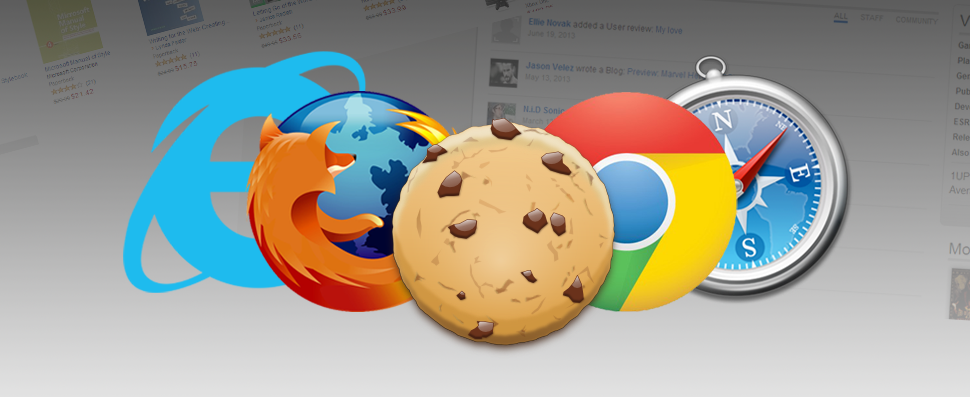
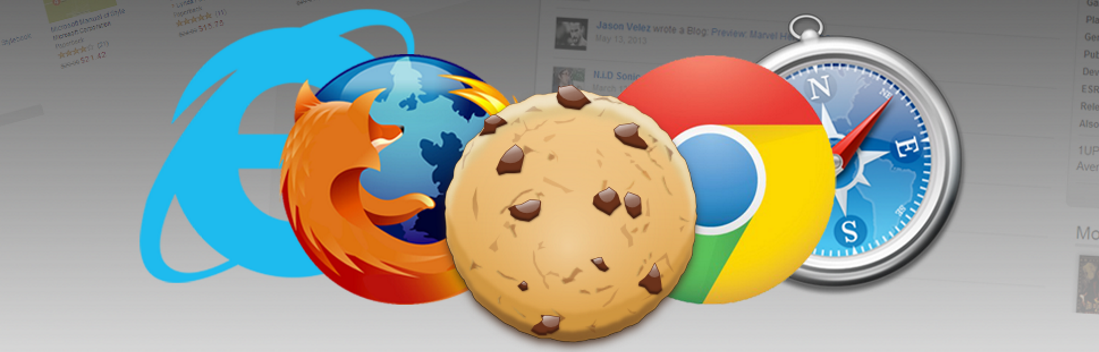
Footer adjustments Image changes

diff --git a/css/main.min.css b/css/main.min.css
@@ -1,1 +1,1 @@
-@font-face{font-family:'FoundersGroteskWeb-Regular';src:url('../fonts/Founders/FoundersGroteskWeb-Regular.eot') format('embedded-opentype')}@font-face{font-family:'FoundersGroteskWeb-Regular';src:url('../fonts/Founders/FoundersGroteskWeb-Regular.woff') format('woff')}html{position:relative;min-height:100%}body{color:#3c4650;font-family:'FoundersGroteskWeb-Regular','Helvetica Neue',Helvetica,Arial,sans-serif;font-size:18px;line-height:1.42857;padding-top:120px;margin-bottom:426px}h1,h2,h3,h4,h5,h6{font-family:FoundersGroteskWeb-Regular}.container{padding-bottom:20px;padding-top:20px}a{color:#00aaeb;text-decoration:none}a:hover,a:focus{color:#0085b8;text-decoration:underline}.navbar{min-height:88px}.navbar-inverse{background-color:#00aaeb;background-image:none;border-color:#0085b8;margin-bottom:0}.navbar-inverse .navbar-brand{color:#fff}.navbar-brand{font-size:32px;font-weight:600;color:#fff;background-position-x:top;padding-left:0;margin-top:-20px}div.navbar-header>a.logo{width:485px}.barrel{border-left:4px solid #fff;margin-right:20px;padding-left:15px;margin-left:230px}.marked{padding:20px 0;margin:20px 0}.jumbotron{background-color:#fff;padding:0}.imgJumbo{min-height:300px}.hero{padding-bottom:30px}.hero h1{font-size:81px;line-height:.875;margin-top:0}.hero h2{font-size:60px;line-height:.875;margin-top:0}.hero p{font-size:26px;margin:0 0 12.5px}.area{width:90px;height:90px;border-radius:45px;background-color:#00aafd;margin:0 auto;padding:inherit;color:#fff;text-align:center}.blueRow{background-color:#ebf7f7}.rotate45{filter:progid:DXImageTransform.Microsoft.BasicImage(rotation=1);-webkit-transform:rotate(45deg);-moz-transform:rotate(45deg);-ms-transform:rotate(45deg);-o-transform:rotate(45deg);transform:rotate(45deg)}div .area{margin-top:20px}.area span{line-height:90px}i.fa.fa-user.fa-stack-1x,i.fa.fa-question.fa-stack-1x{color:#00aafd}.showcase.panel{-moz-backface-visibility:hidden;-webkit-backface-visibility:hidden;backface-visibility:hidden;height:280px;text-transform:none;-moz-transition:opacity 300ms linear 0s,transform 300ms ease-in-out 0s;-o-transition:opacity 300ms linear 0s,transform 300ms ease-in-out 0s;-webkit-transition:opacity 300ms linear 0s,transform 300ms ease-in-out 0s;transition:opacity 300ms linear 0s,transform 300ms ease-in-out 0s}.showcase.panel:hover{-moz-backface-visibility:hidden;-webkit-backface-visibility:hidden;backface-visibility:hidden;height:280px;text-transform:none;-moz-transition:opacity 300ms linear 0s,transform 300ms ease-in-out 0s;-o-transition:opacity 300ms linear 0s,transform 300ms ease-in-out 0s;-webkit-transition:opacity 300ms linear 0s,transform 300ms ease-in-out 0s;transition:opacity 300ms linear 0s,transform 300ms ease-in-out 0s}.panel-default{border-color:#ddd}.panel{background-color:#fff;border:1px solid #ddd;border-radius:4px;box-shadow:0 1px 1px rgba(0,0,0,.05);margin-bottom:25px}.showcase.panel a .panel-body{height:100%}a .panel-body{-moz-transition:color 500ms ease-out 0s,background-color 500ms ease-out 0s,box-shadow 500ms ease-out 0s,opacity 500ms linear 0s,transform 500ms ease-in-out 0s;-o-transition:color 500ms ease-out 0s,background-color 500ms ease-out 0s,box-shadow 500ms ease-out 0s,opacity 500ms linear 0s,transform 500ms ease-in-out 0s;-webkit-transition:color 500ms ease-out 0s,background-color 500ms ease-out 0s,box-shadow 500ms ease-out 0s,opacity 500ms linear 0s,transform 500ms ease-in-out 0s;transition:color 500ms ease-out 0s,background-color 500ms ease-out 0s,box-shadow 500ms ease-out 0s,opacity 500ms linear 0s,transform 500ms ease-in-out 0s}.panel-body{padding:15px}div.feed p a:before,div.no-row.clearfix h3 a.pull-right:before{padding-right:5px;content:url('../img/png/icon_arrow_right16.png');height:10px;width:10px}div.feed p a:hover:before,div.no-row.clearfix h3 a.pull-right:hover:before{padding-right:5px;content:url('../img/png/icon_arrow_right16_dark.png')}.label-info{color:#3c4650;background-color:#fff7b4}.label-info.date-short{display:inline-block;width:56px;color:#3c4650 !important;margin-right:10px;padding:4px 0 4px 0;line-height:1.5;font-weight:normal;background-color:#fff7b4 !important}.truncate,.truncate *,.ellipsis,.ellipsis *{overflow:hidden;-ms-text-overflow:ellipsis;-o-text-overflow:ellipsis;text-overflow:ellipsis;white-space:nowrap}.truncate li .label-info+a,.truncate * li .label-info+a,.ellipsis li .label-info+a,.ellipsis * li .label-info+a{margin-left:-66px;padding-left:66px}.truncate a,.ellipsis a{display:inline-block;max-width:100%;overflow:hidden;-ms-text-overflow:ellipsis;-o-text-overflow:ellipsis;text-overflow:ellipsis;white-space:nowrap}ul.list-unstyled{line-height:2}ul.list-unstyled.truncate,ul.list-unstyled.ellipsis{line-height:1.64}.footer{position:absolute;bottom:0;width:100%;min-height:426px}footer{background-color:#00394d}footer h1,footer .h1,footer h2,footer .h2,footer h3,footer .h3,footer .copyright{color:#aaa}footer a,footer .logo{color:#fff}footer a:hover,footer a:focus{color:#00aaeb}footer,footer .info{padding-top:20px;padding-bottom:20px}footer .info{line-height:2}footer .info .logo{float:right}footer .info .logo .icon{font-size:54px}button.btn{border:1px solid transparent;padding-bottom:10px;padding-top:10px}.hero a,.hero button{font-size:18px}.btn-primary{background-color:#00aaeb;border-color:#0098d2;color:#fff}.btn{-moz-user-select:none;-ms-user-select:none;-webkit-user-select:none;user-select:none;background-image:none;border:1px solid transparent;border-radius:0;cursor:pointer;display:inline-block;font-size:18px;font-weight:normal;line-height:1.42857;margin-bottom:0;padding:6px 12px;text-align:center;vertical-align:middle;white-space:nowrap}span.btn.btn-link{background-color:#75828a;color:#ebf7f7;padding-bottom:10px;padding-top:10px}span.btn.btn-link:hover,span.btn.btn-link:active{background-color:#39464e}.text-uppercase{text-transform:uppercase}a,button,a .icon,a .panel-body,span.btn.btn-link{-moz-transition:color 500ms ease-out 0s,background-color 500ms ease-out 0s,box-shadow 500ms ease-out 0s,opacity 500ms linear 0s,transform 500ms ease-in-out 0s;-o-transition:color 500ms ease-out 0s,background-color 500ms ease-out 0s,box-shadow 500ms ease-out 0s,opacity 500ms linear 0s,transform 500ms ease-in-out 0s;-webkit-transition:color 500ms ease-out 0s,background-color 500ms ease-out 0s,box-shadow 500ms ease-out 0s,opacity 500ms linear 0s,transform 500ms ease-in-out 0s;transition:color 500ms ease-out 0s,background-color 500ms ease-out 0s,box-shadow 500ms ease-out 0s,opacity 500ms linear 0s,transform 500ms ease-in-out 0s}input,button,select,textarea{font-family:inherit;font-size:inherit;line-height:inherit}button,html input[type="button"],input[type="reset"],input[type="submit"]{cursor:pointer}button,select{text-transform:none}button{overflow:visible}.heading-small{font-size:1.2em;color:#777;margin-bottom:0}.heading-large{margin-top:0;font-weight:bold}div.navbar-collapse.collapse>div>div:nth-child(2)>a,div.navbar-collapse.collapse>div>div:nth-child(1)>a{color:#fff;font-weight:500;cursor:pointer;text-decoration:none}div.btn-group.open a{font-weight:normal;text-decoration:none;box-shadow:none !important}div.card .nav-tabs{border-bottom:2px solid #ddd}div.card .nav-tabs>li.active>a,div.card .nav-tabs>li.active>a:focus,div.card .nav-tabs>li.active>a:hover{border-width:0}div.card .nav-tabs>li>a{border:none;color:#666;font-weight:bold}div.card .nav-tabs>li.active>a,div.card .nav-tabs>li>a:hover{border:none;color:#00aaeb !important;background:transparent;font-weight:bold}div.card .nav-tabs>li>a::after{content:"";background:#00aaeb;height:2px;position:absolute;width:100%;left:0;bottom:-1px;-moz-transition:all 250ms ease 0s;-o-transition:all 250ms ease 0s;-webkit-transition:all 250ms ease 0s;transition:all 250ms ease 0s;-moz-transform:scale(0);-ms-transform:scale(0);-o-transform:scale(0);-webkit-transform:scale(0);transform:scale(0)}div.card .nav-tabs>li.active>a::after,div.card .nav-tabs>li:hover>a::after{-moz-transform:scale(1);-ms-transform:scale(1);-o-transform:scale(1);-webkit-transform:scale(1);transform:scale(1)}div.card .tab-nav>li>a::after{background:#21527d none repeat scroll 0 0;color:#fff}div.card .tab-pane{padding:0}div.card .tab-content{padding:15px;-moz-box-sizing:content-box;-webkit-box-sizing:content-box;box-sizing:content-box}div.card{background:#fff none repeat scroll 0 0;box-shadow:0 1px 3px rgba(0,0,0,.3);margin:10px 0}.form-data{padding:5px 15px 5px;border-radius:5px;background-color:#999;color:#fff}div.row.col-md-4.well{margin:0 15px}.dropdown-menu{min-width:400px}.dropdown-menu.user{padding:20px;min-width:220px;font-size:20px}.dropdown-menu.create{padding:20px;min-width:400px}i.glyphicon.glyphicon-info-sign.text-info{vertical-align:top;font-size:12px}@media(max-width:767px){div.navbar-collapse.collapse{display:inline-block;float:right;border-top-style:none;box-shadow:0 0 0 rgba(255,255,255,.1) inset;border-color:transparent !important;-moz-border-image:none;-o-border-image:none;-webkit-border-image:none;border-image:none;padding-right:20px;z-index:999999 !important}.dropdown-menu.user{padding:20px;min-width:220px;font-size:20px;margin-left:-15px}div.row.col-md-4.well{margin:15px 0}.nav>li>a{padding:10px 10px}.create{padding:20px;min-width:400px}.dropdown-menu.create{margin-left:-320px}}.code-highlight{font-family:monospace;background:#3c4650;color:#fff;padding:20px;border-radius:8px}span.fa-stack.fa-lg{margin:0 8px}i.fa.fa-bars{font-size:30px;vertical-align:middle}.scroll-top-wrapper{position:fixed;opacity:0;visibility:hidden;overflow:hidden;text-align:center;z-index:99999999;background-color:#265a88;color:#eee;width:60px;height:60px;line-height:48px;right:20px;bottom:20px;padding-top:2px;border-radius:30px;-webkit-transition:all .3s ease-in-out;-moz-transition:all .3s ease-in-out;-o-transition:all .3s ease-in-out;transition:all .3s ease-in-out}.scroll-top-wrapper:hover{background-color:#00aaeb;opacity:1 !important}.scroll-top-wrapper.show{visibility:visible;cursor:pointer;opacity:.65}.scroll-top-wrapper i.fa{line-height:inherit}.fa.fa-envelope,.glyphicon.glyphicon-map-marker,.fa.fa-phone,.fa.fa-fax{color:#00aaeb}.fa.fa-envelope.adress,.glyphicon.glyphicon-map-marker.adress,.fa.fa-phone.adress,.fa.fa-fax.adress{color:#3c4650}.google-maps{position:relative;padding-bottom:60%;height:0;overflow:hidden}.google-maps iframe{position:absolute;top:0;left:0;width:100% !important;height:100% !important}nav#scroller{position:fixed;z-index:1;left:0;right:0;top:84px;background:#fff;padding-top:-15px;margin-top:-15px}nav#scroller li a.active{border-bottom:3px solid #00aaeb;color:#00aaeb !important;background:transparent;font-weight:bold}nav#scroller li a:hover{border-bottom:inset 3px solid #00aaeb;color:#00aaeb !important;background:transparent;font-weight:bold}nav#scroller li:hover{border-bottom:none}nav#scroller li a:not(.active){background-color:#fff;color:#787878}
+@font-face{font-family:'FoundersGroteskWeb-Regular';src:url('../fonts/Founders/FoundersGroteskWeb-Regular.eot') format('embedded-opentype')}@font-face{font-family:'FoundersGroteskWeb-Regular';src:url('../fonts/Founders/FoundersGroteskWeb-Regular.woff') format('woff')}html{position:relative;min-height:100%}body{color:#3c4650;font-family:'FoundersGroteskWeb-Regular','Helvetica Neue',Helvetica,Arial,sans-serif;font-size:18px;line-height:1.42857;padding-top:120px;margin-bottom:426px}h1,h2,h3,h4,h5,h6{font-family:FoundersGroteskWeb-Regular}.container{padding-bottom:20px;padding-top:20px}a{color:#00aaeb;text-decoration:none}a:hover,a:focus{color:#0085b8;text-decoration:underline}.navbar{min-height:88px}.navbar-inverse{background-color:#00aaeb;background-image:none;border-color:#0085b8;margin-bottom:0}.navbar-inverse .navbar-brand{color:#fff}.navbar-brand{font-size:32px;font-weight:600;color:#fff;background-position-x:top;padding-left:0;margin-top:-20px}div.navbar-header>a.logo{width:485px}.barrel{border-left:4px solid #fff;margin-right:20px;padding-left:15px;margin-left:230px}.marked{padding:20px 0;margin:20px 0}.jumbotron{background-color:#fff;padding:0}.imgJumbo{min-height:300px}.hero{padding-bottom:30px}.hero h1{font-size:81px;line-height:.875;margin-top:0}.hero h2{font-size:60px;line-height:.875;margin-top:0}.hero p{font-size:26px;margin:0 0 12.5px}.area{width:90px;height:90px;border-radius:45px;background-color:#00aafd;margin:0 auto;padding:inherit;color:#fff;text-align:center}.blueRow{background-color:#ebf7f7}.rotate45{filter:progid:DXImageTransform.Microsoft.BasicImage(rotation=1);-webkit-transform:rotate(45deg);-moz-transform:rotate(45deg);-ms-transform:rotate(45deg);-o-transform:rotate(45deg);transform:rotate(45deg)}div .area{margin-top:20px}.area span{line-height:90px}i.fa.fa-user.fa-stack-1x,i.fa.fa-question.fa-stack-1x{color:#00aafd}.showcase.panel{-moz-backface-visibility:hidden;-webkit-backface-visibility:hidden;backface-visibility:hidden;height:280px;text-transform:none;-moz-transition:opacity 300ms linear 0s,transform 300ms ease-in-out 0s;-o-transition:opacity 300ms linear 0s,transform 300ms ease-in-out 0s;-webkit-transition:opacity 300ms linear 0s,transform 300ms ease-in-out 0s;transition:opacity 300ms linear 0s,transform 300ms ease-in-out 0s}.showcase.panel:hover{-moz-backface-visibility:hidden;-webkit-backface-visibility:hidden;backface-visibility:hidden;height:280px;text-transform:none;-moz-transition:opacity 300ms linear 0s,transform 300ms ease-in-out 0s;-o-transition:opacity 300ms linear 0s,transform 300ms ease-in-out 0s;-webkit-transition:opacity 300ms linear 0s,transform 300ms ease-in-out 0s;transition:opacity 300ms linear 0s,transform 300ms ease-in-out 0s}.panel-default{border-color:#ddd}.panel{background-color:#fff;border:1px solid #ddd;border-radius:4px;box-shadow:0 1px 1px rgba(0,0,0,.05);margin-bottom:25px}.showcase.panel a .panel-body{height:100%}a .panel-body{-moz-transition:color 500ms ease-out 0s,background-color 500ms ease-out 0s,box-shadow 500ms ease-out 0s,opacity 500ms linear 0s,transform 500ms ease-in-out 0s;-o-transition:color 500ms ease-out 0s,background-color 500ms ease-out 0s,box-shadow 500ms ease-out 0s,opacity 500ms linear 0s,transform 500ms ease-in-out 0s;-webkit-transition:color 500ms ease-out 0s,background-color 500ms ease-out 0s,box-shadow 500ms ease-out 0s,opacity 500ms linear 0s,transform 500ms ease-in-out 0s;transition:color 500ms ease-out 0s,background-color 500ms ease-out 0s,box-shadow 500ms ease-out 0s,opacity 500ms linear 0s,transform 500ms ease-in-out 0s}.panel-body{padding:15px}div.feed p a:before,div.no-row.clearfix h3 a.pull-right:before{padding-right:5px;content:url('../img/png/icon_arrow_right16.png');height:10px;width:10px}div.feed p a:hover:before,div.no-row.clearfix h3 a.pull-right:hover:before{padding-right:5px;content:url('../img/png/icon_arrow_right16_dark.png')}.label-info{color:#3c4650;background-color:#fff7b4}.label-info.date-short{display:inline-block;width:56px;color:#3c4650 !important;margin-right:10px;padding:4px 0 4px 0;line-height:1.5;font-weight:normal;background-color:#fff7b4 !important}.truncate,.truncate *,.ellipsis,.ellipsis *{overflow:hidden;-ms-text-overflow:ellipsis;-o-text-overflow:ellipsis;text-overflow:ellipsis;white-space:nowrap}.truncate li .label-info+a,.truncate * li .label-info+a,.ellipsis li .label-info+a,.ellipsis * li .label-info+a{margin-left:-66px;padding-left:66px}.truncate a,.ellipsis a{display:inline-block;max-width:100%;overflow:hidden;-ms-text-overflow:ellipsis;-o-text-overflow:ellipsis;text-overflow:ellipsis;white-space:nowrap}ul.list-unstyled{line-height:2}ul.list-unstyled.truncate,ul.list-unstyled.ellipsis{line-height:1.64}.footer{position:absolute;bottom:0;width:100%;min-height:426px}footer{background-color:#00394d}footer h1,footer .h1,footer h2,footer .h2,footer h3,footer .h3,footer .copyright{color:#aaa}footer a,footer .logo{color:#fff}footer a:hover,footer a:focus{color:#00aaeb}footer,footer .info{padding-top:20px;padding-bottom:20px}footer .info{line-height:2}footer .info .logo{float:right}footer .info .logo .icon{font-size:54px}button.btn{border:1px solid transparent;padding-bottom:10px;padding-top:10px}.hero a,.hero button{font-size:18px}.btn-primary{background-color:#00aaeb;border-color:#0098d2;color:#fff}.btn{-moz-user-select:none;-ms-user-select:none;-webkit-user-select:none;user-select:none;background-image:none;border:1px solid transparent;border-radius:0;cursor:pointer;display:inline-block;font-size:18px;font-weight:normal;line-height:1.42857;margin-bottom:0;padding:6px 12px;text-align:center;vertical-align:middle;white-space:nowrap}span.btn.btn-link{background-color:#75828a;color:#ebf7f7;padding-bottom:10px;padding-top:10px}span.btn.btn-link:hover,span.btn.btn-link:active{background-color:#39464e}.text-uppercase{text-transform:uppercase}a,button,a .icon,a .panel-body,span.btn.btn-link{-moz-transition:color 500ms ease-out 0s,background-color 500ms ease-out 0s,box-shadow 500ms ease-out 0s,opacity 500ms linear 0s,transform 500ms ease-in-out 0s;-o-transition:color 500ms ease-out 0s,background-color 500ms ease-out 0s,box-shadow 500ms ease-out 0s,opacity 500ms linear 0s,transform 500ms ease-in-out 0s;-webkit-transition:color 500ms ease-out 0s,background-color 500ms ease-out 0s,box-shadow 500ms ease-out 0s,opacity 500ms linear 0s,transform 500ms ease-in-out 0s;transition:color 500ms ease-out 0s,background-color 500ms ease-out 0s,box-shadow 500ms ease-out 0s,opacity 500ms linear 0s,transform 500ms ease-in-out 0s}input,button,select,textarea{font-family:inherit;font-size:inherit;line-height:inherit}button,html input[type="button"],input[type="reset"],input[type="submit"]{cursor:pointer}button,select{text-transform:none}button{overflow:visible}.heading-small{font-size:1.2em;color:#777;margin-bottom:0}.heading-large{margin-top:0;font-weight:bold}div.navbar-collapse.collapse>div>div:nth-child(2)>a,div.navbar-collapse.collapse>div>div:nth-child(1)>a{color:#fff;font-weight:500;cursor:pointer;text-decoration:none}div.btn-group.open a{font-weight:normal;text-decoration:none;box-shadow:none !important}div.card .nav-tabs{border-bottom:2px solid #ddd}div.card .nav-tabs>li.active>a,div.card .nav-tabs>li.active>a:focus,div.card .nav-tabs>li.active>a:hover{border-width:0}div.card .nav-tabs>li>a{border:none;color:#666;font-weight:bold}div.card .nav-tabs>li.active>a,div.card .nav-tabs>li>a:hover{border:none;color:#00aaeb !important;background:transparent;font-weight:bold}div.card .nav-tabs>li>a::after{content:"";background:#00aaeb;height:2px;position:absolute;width:100%;left:0;bottom:-1px;-moz-transition:all 250ms ease 0s;-o-transition:all 250ms ease 0s;-webkit-transition:all 250ms ease 0s;transition:all 250ms ease 0s;-moz-transform:scale(0);-ms-transform:scale(0);-o-transform:scale(0);-webkit-transform:scale(0);transform:scale(0)}div.card .nav-tabs>li.active>a::after,div.card .nav-tabs>li:hover>a::after{-moz-transform:scale(1);-ms-transform:scale(1);-o-transform:scale(1);-webkit-transform:scale(1);transform:scale(1)}div.card .tab-nav>li>a::after{background:#21527d none repeat scroll 0 0;color:#fff}div.card .tab-pane{padding:0}div.card .tab-content{padding:15px;-moz-box-sizing:content-box;-webkit-box-sizing:content-box;box-sizing:content-box}div.card{background:#fff none repeat scroll 0 0;box-shadow:0 1px 3px rgba(0,0,0,.3);margin:10px 0}.form-data{padding:5px 15px 5px;border-radius:5px;background-color:#999;color:#fff}div.row.col-md-4.well{margin:0 15px}.dropdown-menu{min-width:400px}.dropdown-menu.user{padding:20px;min-width:220px;font-size:20px}.dropdown-menu.create{padding:20px;min-width:400px}i.glyphicon.glyphicon-info-sign.text-info{vertical-align:top;font-size:12px}@media(max-width:767px){body{margin-bottom:935px}div.navbar-collapse.collapse{display:inline-block;float:right;border-top-style:none;box-shadow:0 0 0 rgba(255,255,255,.1) inset;border-color:transparent !important;-moz-border-image:none;-o-border-image:none;-webkit-border-image:none;border-image:none;padding-right:20px;z-index:999999 !important}.dropdown-menu.user{padding:20px;min-width:220px;font-size:20px;margin-left:-15px}div.row.col-md-4.well{margin:15px 0}.nav>li>a{padding:10px 10px}.create{padding:20px;min-width:400px}.dropdown-menu.create{margin-left:-320px}}.code-highlight{font-family:monospace;background:#3c4650;color:#fff;padding:20px;border-radius:8px}span.fa-stack.fa-lg{margin:0 8px}i.fa.fa-bars{font-size:30px;vertical-align:middle}.scroll-top-wrapper{position:fixed;opacity:0;visibility:hidden;overflow:hidden;text-align:center;z-index:99999999;background-color:#265a88;color:#eee;width:60px;height:60px;line-height:48px;right:20px;bottom:20px;padding-top:2px;border-radius:30px;-webkit-transition:all .3s ease-in-out;-moz-transition:all .3s ease-in-out;-o-transition:all .3s ease-in-out;transition:all .3s ease-in-out}.scroll-top-wrapper:hover{background-color:#00aaeb;opacity:1 !important}.scroll-top-wrapper.show{visibility:visible;cursor:pointer;opacity:.65}.scroll-top-wrapper i.fa{line-height:inherit}.fa.fa-envelope,.glyphicon.glyphicon-map-marker,.fa.fa-phone,.fa.fa-fax{color:#00aaeb}.fa.fa-envelope.adress,.glyphicon.glyphicon-map-marker.adress,.fa.fa-phone.adress,.fa.fa-fax.adress{color:#3c4650}.google-maps{position:relative;padding-bottom:60%;height:0;overflow:hidden}.google-maps iframe{position:absolute;top:0;left:0;width:100% !important;height:100% !important}nav#scroller{position:fixed;z-index:1;left:0;right:0;top:84px;background:#fff;padding-top:-15px;margin-top:-15px}nav#scroller li a.active{border-bottom:3px solid #00aaeb;color:#00aaeb !important;background:transparent;font-weight:bold}nav#scroller li a:hover{border-bottom:inset 3px solid #00aaeb;color:#00aaeb !important;background:transparent;font-weight:bold}nav#scroller li:hover{border-bottom:none}nav#scroller li a:not(.active){background-color:#fff;color:#787878}

diff --git a/js/app/views/docs/integrity.view.html b/js/app/views/docs/integrity.view.html
@@ -1,55 +1,51 @@
 <div class="jumbotron">
-  <div class="container">
+  <div class="container" style="padding-bottom:0">
     <h1>Integritetspolicy</h1>
-    <figure>
-      <img class="img-responsive imgJumbo" src="/img/integrity_red.jpg" title="Villkor" />
-      <figcaption>Västtrafik - Integritetspolicy</figcaption>
-    </figure>
+    <img class="img-responsive" src="/img/integrity_red3.jpg" title="Integritetspolicy" />
   </div>
+</div>
+<div class="container" style="padding-top:0;margin-bottom:15px;">
+  <section>
+    <article>
+      <p style="font-weight:bold;padding-top:0;margin-top:0">
+        Västtrafik Utvecklarportal är mån om att bevara din integritet. Därför sparar vi ingen information om dig som inte är nödvändig för
+        att webbplatsen ska fungera som det är tänkt.
+      </p>
+      För att kunna använda dig av alla tjänster som vi erbjuder krävs att Du registrerar ett konto
+      varpå viss information sparas, se nedan.
 
-  <div class="container">
-    <section>
-      <article>
-        <p style="font-weight:bold;">
-          Västtrafik Utvecklarportal är mån om att bevara din integritet. Därför sparar vi ingen information om dig som inte är nödvändig för
-          att webbplatsen ska fungera som det är tänkt. 
-        </p>
-        För att kunna använda dig av alla tjänster som vi erbjuder krävs att Du registrerar ett konto
-        varpå viss information sparas, se nedan.
+    </article>
 
-      </article>
+    <article>
+      <h2>Cookies</h2>
+      Utvecklarportalen använder sig inte av cookies.
 
-      <article>
-        <h2>Cookies</h2>
-        Utvecklarportalen använder sig inte av cookies.
+      <a href="#/docs/cookies" title="Cookies">Mer information om cookies</a>
+    </article>
 
-        <a href="#/docs/cookies" title="Cookies">Mer information om cookies</a>
-      </article>
+    <article>
+      <h2>Konto - Utvecklarportalen</h2>
 
-      <article>
-        <h2>Konto - Utvecklarportalen</h2>
-        
-          Att skapa ett konto på Utvecklarportalen är nödvändigt för att kunna ta del av tjänsterna som erbjuds.
-          Om du väljer att lämna dina personuppgifter är Västtrafik ansvarig för dem. Informationen kommer att behandlas konfidentiellt och enligt Personuppgiftslagen.
-          Kontorelated information som vi sparar är förnamn, efternamn, epostadress och lösenord vilket är nödvändigt för att Du ska komma åt våra tjänster.
-      </article>
+      Att skapa ett konto på Utvecklarportalen är nödvändigt för att kunna ta del av tjänsterna som erbjuds.
+      Om du väljer att lämna dina personuppgifter är Västtrafik ansvarig för dem. Informationen kommer att behandlas konfidentiellt och enligt Personuppgiftslagen.
+      Kontorelated information som vi sparar är förnamn, efternamn, epostadress och lösenord vilket är nödvändigt för att Du ska komma åt våra tjänster.
+    </article>
 
-      <article>
-        <h2>Till vad används kontouppgifter?</h2>
-        Lämnad information används enbart till att ge dig tillgång till samtliga tjänster på Utvecklarportalen.
-      </article>
+    <article>
+      <h2>Till vad används kontouppgifter?</h2>
+      Lämnad information används enbart till att ge dig tillgång till samtliga tjänster på Utvecklarportalen.
+    </article>
 
 
-      <article>
-        <h2>Kan mina uppgifter spridas?</h2>
-        Dina uppgifter används bara för att ge dig tillgång till dit konto här på Utvecklarportalen.
-      </article>
+    <article>
+      <h2>Kan mina uppgifter spridas?</h2>
+      Dina uppgifter används bara för att ge dig tillgång till dit konto här på Utvecklarportalen.
+    </article>
 
-      <article>
-        <h2>Hur länge sparar Västtrafik mina uppgifter?</h2>
-          Dina kontouppgifter kommer att sparas hos Västtrafik tills du väljer att avsluta ditt konto. För att avsluta ditt konto,
-          var vänlig skicka epost till api.at.vasttrafik.se och....
-      </article>
-    </section>
-  </div>
+    <article>
+      <h2>Hur länge sparar Västtrafik mina uppgifter?</h2>
+      Dina kontouppgifter kommer att sparas hos Västtrafik tills du väljer att avsluta ditt konto. För att avsluta ditt konto,
+      var vänlig skicka epost till api.at.vasttrafik.se och....
+    </article>
+  </section>
 </div>

diff --git a/js/app/views/docs/cookies.view.html b/js/app/views/docs/cookies.view.html
@@ -1,14 +1,13 @@
 <div class="jumbotron">
-  <div class="container">
+  <div class="container" style="padding-bottom:0">
     <h1>Cookies</h1>
     <img class="img-responsive" src="/img/png/browser-cookie.png" title="Cookies" />
   </div>
 </div>
 
-<div class="container">
+<div class="container" style="padding-top:0">
   <section>
     <article>
-      <h2>Cookies</h2>
       <p style="font-weight:bold;">
         Västtrafik Utvecklarportalen använder sig inte av cookies.
       </p>
@@ -16,7 +15,7 @@
 
     <article>
       <h2>LocalStorage</h2>
-        LocalStorage används för att lagra information. Där sparas uppgifter om inloggning. Denna information delas inte med tredje part.
+      LocalStorage används för att lagra information. Där sparas uppgifter om inloggning. Denna information delas inte med tredje part.
     </article>
   </section>
 </div>

diff --git a/js/app/views/docs/terms.view.html b/js/app/views/docs/terms.view.html
@@ -1,15 +1,12 @@
 <div class="jumbotron">
   <div class="container">
     <h1>Villkor</h1>
-    <figure>
-      <img class="img-responsive imgJumbo" src="/img/terms_red.jpg" title="Villkor" />
-      <figcaption>Västtrafik - Villkor</figcaption>
-    </figure>
+    <img class="img-responsive" src="/img/terms_red.jpg" title="Villkor" />
   </div>
-  <div class="container">
+  <div class="container" style="padding-top:0">
     <section>
       <article>
-        <h1>T.B.D</h1>
+        <p>Coming soon...</p>
       </article>
     </section>
   </div>

diff --git a/css/main.css b/css/main.css
@@ -285,7 +285,7 @@ ul.list-unstyled {
   position: absolute;
   bottom: 0;
   width: 100%;
-  /* Set the fixed height of the footer here */
+  /* Fixed height of footer, adjusted in @media */
   min-height: 426px;
 }
 
@@ -549,6 +549,9 @@ i.glyphicon.glyphicon-info-sign.text-info {
 }
 
 @media (max-width: 767px) {
+  body {
+    margin-bottom: 935px; /*Same as footer*/
+  }
   div.navbar-collapse.collapse {
     display: inline-block;
     float: right;
